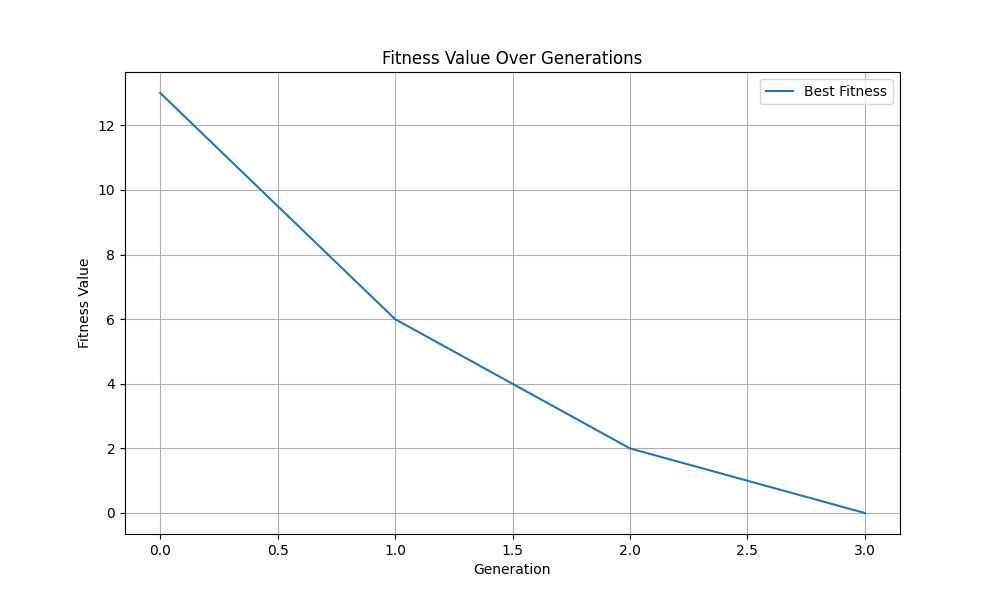
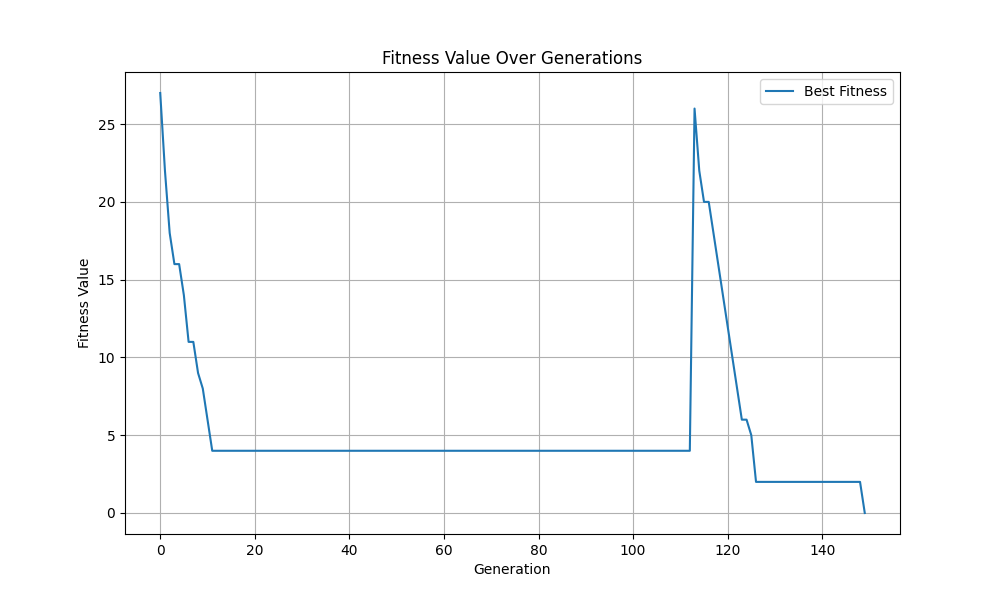
restart mechanism

diff --git a/soduko_solver.py b/soduko_solver.py
@@ -5,12 +5,12 @@ import matplotlib.animation as animation
 from IPython.display import display , Image, HTML
 
 class SudokuGeneticSolver:
-    def __init__(self, grid, population_size=1000, generations=3000, mutation_rate=0.3):
+    def __init__(self, grid, population_size=2000, generations=5000, mutation_rate=0.4):
         self.grid = np.array(grid)
         self.population_size = population_size
         self.generations = generations
         self.mutation_rate = mutation_rate
-        self.elite_size = int(population_size * 0.1)  # Legjobb 10% megőrzése
+        self.elite_size = int(population_size * 0.05)  # Csökkentett elit méret
 
     def solve(self):
         population = self.initialize_population()
@@ -29,15 +29,30 @@ class SudokuGeneticSolver:
 
     def solve_with_visualization(self):
         population = self.initialize_population()
-        solutions = []  # Most már minden generációt tárolunk
+        solutions = []
         fitness_history = []
+        stagnation_counter = 0
+        best_fitness = float('inf')
 
         for generation in range(self.generations):
             fitness_scores = [self.fitness(individual) for individual in population]
-            fitness_history.append(min(fitness_scores))
+            current_best = min(fitness_scores)
+            fitness_history.append(current_best)
 
-            # Minden generációnál kiírjuk az állapotot
-            print(f"Generation {generation}: Best fitness = {min(fitness_scores)}")
+            print(f"Generation {generation}: Best fitness = {current_best}")
+
+            if current_best >= best_fitness:
+                stagnation_counter += 1
+            else:
+                best_fitness = current_best
+                stagnation_counter = 0
+
+            # Újraindítás, ha túl sokáig nem javul
+            if stagnation_counter > 100:
+                print("Restarting population due to stagnation...")
+                population = self.initialize_population()
+                stagnation_counter = 0
+                continue
 
             # Ha megtaláltuk a megoldást
             if 0 in fitness_scores:
@@ -238,9 +253,17 @@ class SudokuGeneticSolver:
 
     def crossover(self, parent1, parent2):
         child = parent1.copy()
-        for row in range(9):
-            if random.random() > 0.5:
-                child[row] = parent2[row]
+        # Több pont keresztezés
+        crossover_points = sorted(random.sample(range(9), random.randint(2, 4)))
+        current_parent = parent1
+        start = 0
+        
+        for point in crossover_points:
+            child[start:point] = current_parent[start:point]
+            current_parent = parent2 if current_parent is parent1 else parent1
+            start = point
+        
+        child[start:] = current_parent[start:]
         return child
 
     def mutate(self, individual):
@@ -249,25 +272,32 @@ class SudokuGeneticSolver:
             if random.random() < self.mutation_rate:
                 empty_positions = [i for i in range(9) if self.grid[row][i] == 0]
                 if len(empty_positions) > 1:
-                    # Több pozíció cseréje egy sorban
-                    num_swaps = random.randint(1, min(3, len(empty_positions) // 2))
-                    for _ in range(num_swaps):
-                        pos1, pos2 = random.sample(empty_positions, 2)
-                        mutated[row][pos1], mutated[row][pos2] = mutated[row][pos2], mutated[row][pos1]
+                    # Nagyobb változtatás: több csere vagy teljes sor újrakeverése
+                    if random.random() < 0.3:  # 30% esély a sor teljes újrakeverésére
+                        values = [mutated[row][i] for i in empty_positions]
+                        random.shuffle(values)
+                        for pos, value in zip(empty_positions, values):
+                            mutated[row][pos] = value
+                    else:
+                        # Több csere végrehajtása
+                        num_swaps = random.randint(2, len(empty_positions))
+                        for _ in range(num_swaps):
+                            pos1, pos2 = random.sample(empty_positions, 2)
+                            mutated[row][pos1], mutated[row][pos2] = mutated[row][pos2], mutated[row][pos1]
         return mutated
 
 
 if __name__ == "__main__":
     grid = [
-        [9, 0, 0, 0, 8, 0, 0, 0, 0],
-        [0, 3, 0, 0, 0, 5, 0, 0, 9],
-        [0, 0, 0, 3, 9, 0, 0, 7, 0],
-        [0, 0, 0, 7, 0, 0, 0, 0, 0],
-        [0, 0, 0, 0, 3, 1, 0, 0, 6],
-        [7, 0, 0, 6, 0, 0, 0, 0, 0],
-        [0, 0, 0, 0, 0, 7, 3, 0, 2],
-        [0, 0, 0, 0, 0, 0, 1, 0, 7],
-        [0, 7, 0, 0, 0, 9, 0, 0, 0]
+        [0, 4, 0, 8, 6, 0, 0, 9, 0],
+        [0, 0, 6, 0, 7, 9, 0, 0, 8],
+        [0, 8, 0, 1, 0, 0, 2, 0, 0],
+        [0, 1, 0, 0, 0, 0, 8, 7, 9],
+        [3, 5, 0, 0, 9, 8, 0, 0, 0],
+        [6, 9, 0, 0, 0, 0, 0, 2, 0],
+        [0, 0, 0, 6, 5, 1, 0, 8, 7],
+        [8, 7, 5, 0, 2, 4, 6, 0, 0],
+        [9, 0, 0, 7, 0, 3, 0, 0, 0],
     ]
 
     solver = SudokuGeneticSolver(grid)
